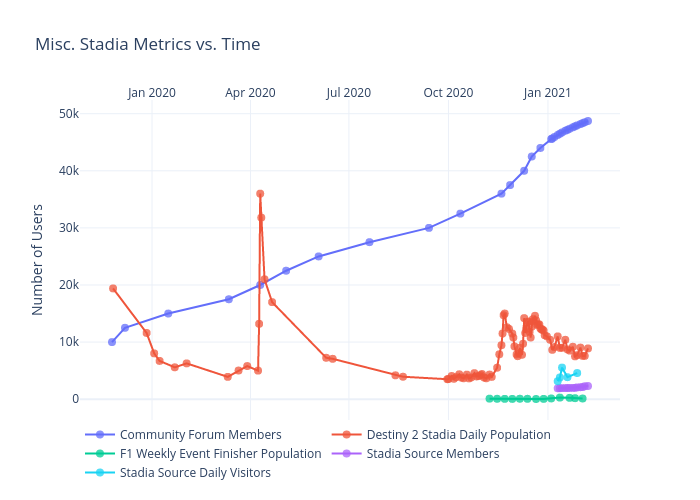
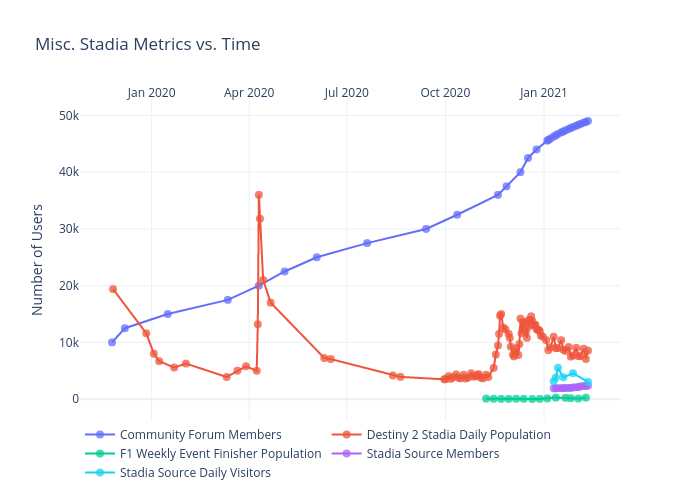
Add files via upload

diff --git a/misc/figure.js b/misc/figure.js
@@ -145,7 +145,9 @@ var figure = {
                 "2021-01-31",
                 "2021-02-02",
                 "2021-02-04",
-                "2021-02-07"
+                "2021-02-07",
+                "2021-02-09",
+                "2021-02-11"
             ],
             "ysrc": "jdeslip:366:8a93ba",
             "y": [
@@ -282,7 +284,9 @@ var figure = {
                 "48177",
                 "48348",
                 "48502",
-                "48722"
+                "48722",
+                "48837",
+                "49017"
             ],
             "marker": {
                 "size": 8,
@@ -437,7 +441,9 @@ var figure = {
                 "2021-01-31",
                 "2021-02-02",
                 "2021-02-04",
-                "2021-02-07"
+                "2021-02-07",
+                "2021-02-09",
+                "2021-02-11"
             ],
             "ysrc": "jdeslip:366:6c82e3",
             "y": [
@@ -574,7 +580,9 @@ var figure = {
                 "9040",
                 "7580",
                 "7580",
-                "8890"
+                "8890",
+                "7080",
+                "8560"
             ],
             "marker": {
                 "size": 8,
@@ -729,7 +737,9 @@ var figure = {
                 "2021-01-31",
                 "2021-02-02",
                 "2021-02-04",
-                "2021-02-07"
+                "2021-02-07",
+                "2021-02-09",
+                "2021-02-11"
             ],
             "ysrc": "jdeslip:366:044d04",
             "y": [
@@ -864,7 +874,10 @@ var figure = {
                 "175",
                 null,
                 null,
-                "120"
+                "120",
+                null,
+                null,
+                "273"
             ],
             "marker": {
                 "size": 8,
@@ -1019,7 +1032,9 @@ var figure = {
                 "2021-01-31",
                 "2021-02-02",
                 "2021-02-04",
-                "2021-02-07"
+                "2021-02-07",
+                "2021-02-09",
+                "2021-02-11"
             ],
             "ysrc": "jdeslip:366:4fe7e6",
             "y": [
@@ -1156,7 +1171,9 @@ var figure = {
                 "2097",
                 "2124",
                 "2271",
-                "2305"
+                "2305",
+                "2332",
+                "2380"
             ],
             "marker": {
                 "size": 8,
@@ -1311,7 +1328,9 @@ var figure = {
                 "2021-01-31",
                 "2021-02-02",
                 "2021-02-04",
-                "2021-02-07"
+                "2021-02-07",
+                "2021-02-09",
+                "2021-02-11"
             ],
             "ysrc": "jdeslip:366:121b34",
             "y": [
@@ -1444,7 +1463,13 @@ var figure = {
                 null,
                 null,
                 null,
-                "4578"
+                "4578",
+                null,
+                null,
+                null,
+                null,
+                "",
+                "3050"
             ],
             "marker": {
                 "size": 8,
@@ -1463,8 +1488,8 @@ var figure = {
             "side": "top",
             "type": "date",
             "range": [
-                "2019-10-28 19:04:50.6832",
-                "2021-03-06 04:55:09.3168"
+                "2019-10-28 13:08:42.4167",
+                "2021-03-10 10:51:17.5833"
             ],
             "title": {
                 "text": ""
@@ -1474,8 +1499,8 @@ var figure = {
         "yaxis": {
             "type": "linear",
             "range": [
-                -3451.8655341203576,
-                52205.865534120356
+                -3472.973365966024,
+                52521.97336596603
             ],
             "title": {
                 "text": "Number of Users"
